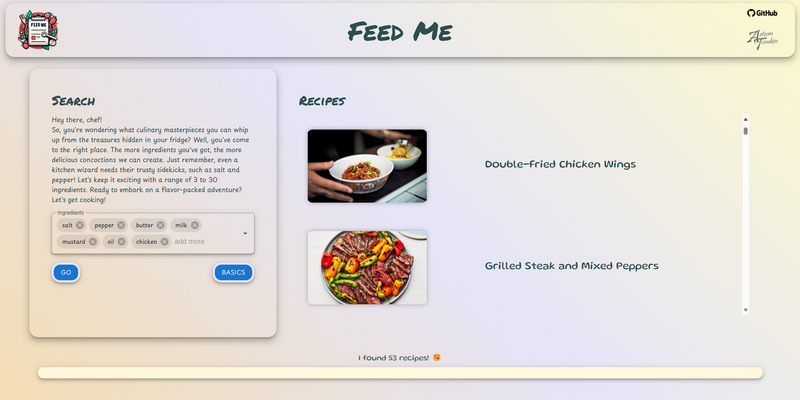
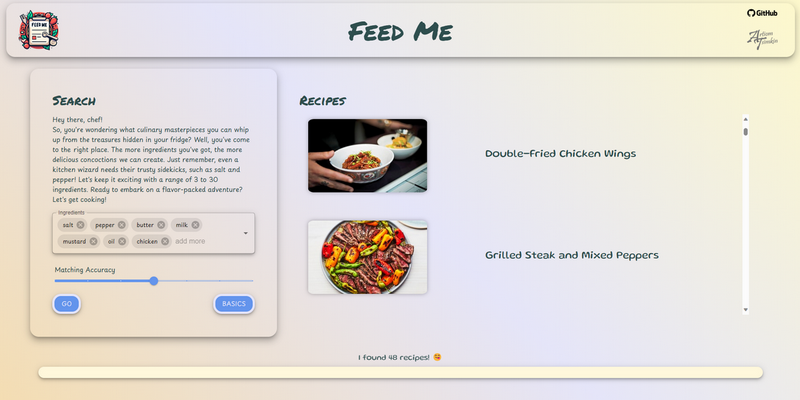
updated new project description

diff --git a/index.html b/index.html
@@ -850,11 +850,12 @@
                     </div>
                   </h3>
                   <p id="GeneralText3">
-                    Feed Me revolutionizes home cooking, making it enjoyable and
-                    effortless. With 12,000+ recipes and 1,000+ ingredients, the
-                    app suggests base items and helps you discover exciting
-                    dishes using what's in your fridge. Elevate your culinary
-                    adventures with ease!
+                    Feed Me transforms home cooking into an enjoyable and
+                    effortless experience. Featuring 12,000+ recipes and 1,000+
+                    ingredients, the app offers base items and a unique matching
+                    threshold feature. Discover exciting dishes based on what's
+                    in your fridge, and elevate your culinary adventures with
+                    ease!
                   </p>
                   <br />
                 </div>
